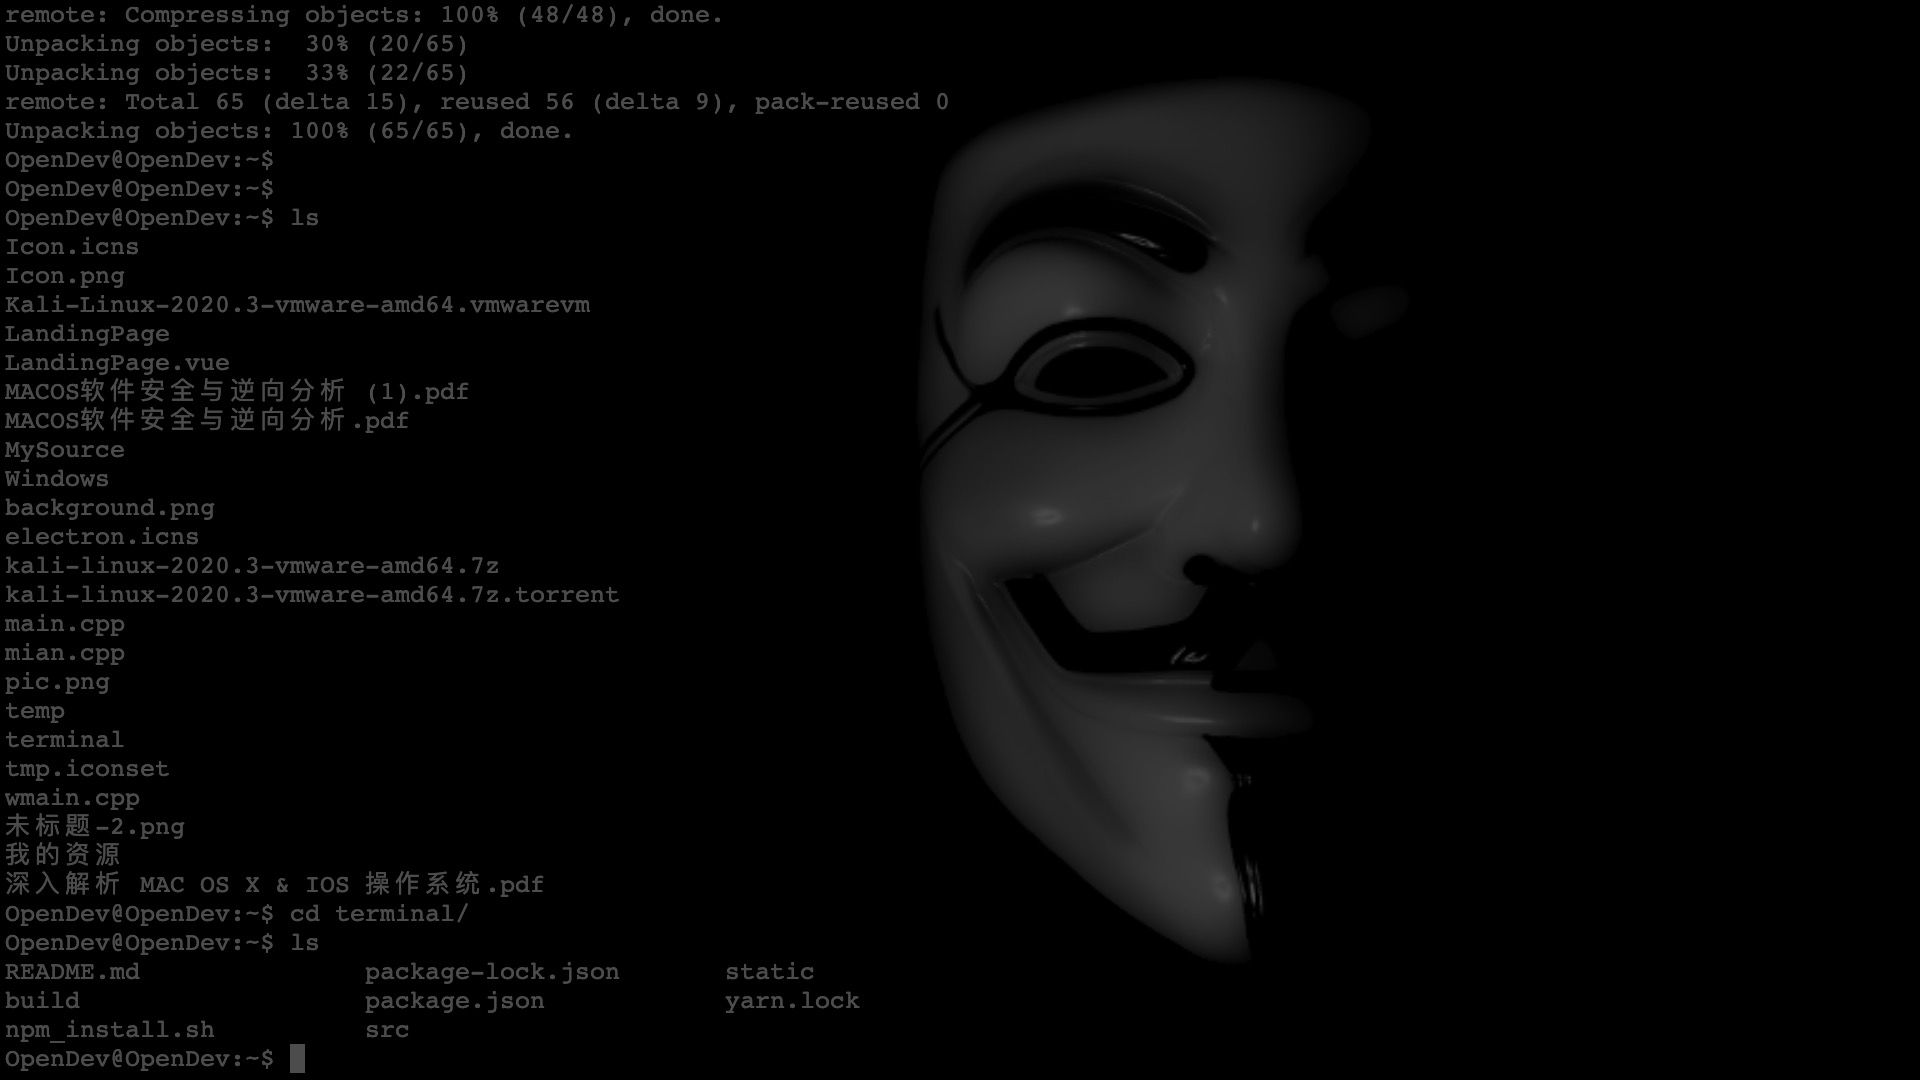
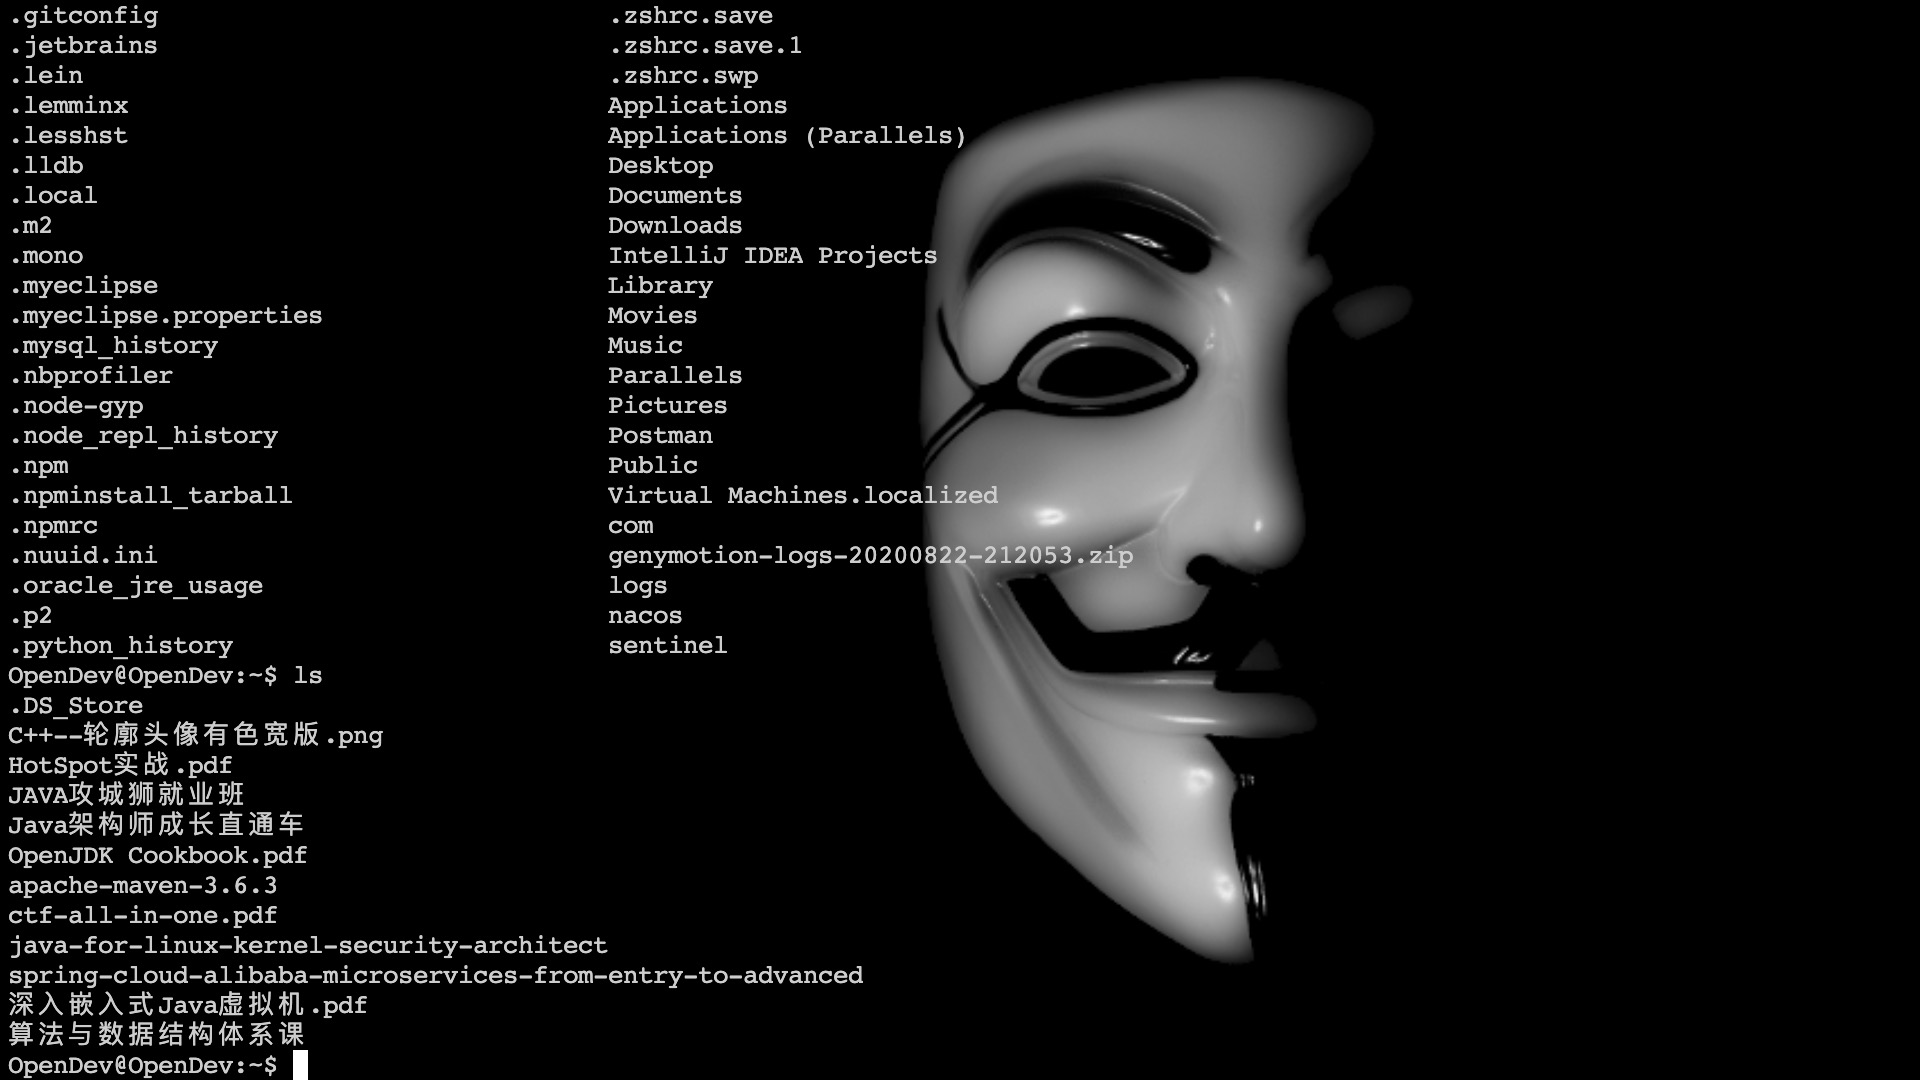
优化代码,取消透明效果,无边框效果,窗口调节为简洁简单的样式,改变窗口宽度1215px.

Changed region(s): [[0.0, 0.0, 0.7188, 1.0], [0.2188, 0.3361, 0.25, 0.3667]]

diff --git a/src/renderer/components/Terminal.vue b/src/renderer/components/Terminal.vue
@@ -1,26 +1,15 @@
-<template>
-
-        
-    <div id="xterm" :style="{backgroundImage: 'url(' + background + ')'} "></div>
-       
-
+<template>   
+    <div id="xterm" :style="{backgroundImage: 'url(' + background + ')'} "></div> 
 </template>
 
 <style scoped>
     #xterm{
-        
-        
-        margin-left: 4.7px;
+        margin-left: 8.2px;
         height: 100%;
         width: 100%;
         background: no-repeat center;
         background-size: contain;
     }
-
-    
-    
-
-    
 
 </style>
   
@@ -28,25 +17,14 @@
 
 const os = require('os');
 const pty = require('node-pty');
-
-import { Terminal } from 'xterm';
-
-import { FitAddon } from 'xterm-addon-fit';
 const { remote } = require('electron')
+import { Terminal } from 'xterm';
+import { FitAddon } from 'xterm-addon-fit';
 import background from '@/assets/background.png'
-import { send } from 'process';
+
 
 export default {
     name: 'Terminal',
-
-    props: {
-        terminalProperties: {
-            type: Object,
-            default: function(){
-                return {}
-            }
-        }
-    },
 
     data(){
         return{
@@ -59,83 +37,103 @@ export default {
     },
 
     methods: {
+
+        /**
+         * 初始化Terminal终端
+         */
         initializeTerminal: function(){
-        this.shell = process.env[os.platform() === 'win32' ? 'COMSPEC' : 'SHELL'];
-        this.ptyProcess = pty.spawn(this.shell,[],{
-            name: 'xterm-color',
-            cols: 80,
-            rows: 30,
-            cwd: process.env.HOME,
-            env: process.env
-        });
-        this.ptyProcess.write('source ~/.bash_profile\r');
-        const that = this;
-        this.xterm = new Terminal({
             
+            /**
+             * 初始化node-pty
+             */
+            this.shell = process.env[os.platform() === 'win32' ? 'COMSPEC' : 'SHELL'];
+            this.ptyProcess = pty.spawn(this.shell,[],{
+                cwd: process.env.HOME,
+                env: process.env
+            });
             
-            
-            
-            cursorBlink: true, //光标闪烁
-            fontSize: 25,
-            
-            theme: {
+            // 写命令
+            this.ptyProcess.write('source ~/.bash_profile\r');
+
+            const that = this;
+
+            /**
+             * 初始化xterm
+             */
+            this.xterm = new Terminal({
                 
-                foreground:'white',
-                background: "#0000",
-               
+                cursorBlink: true, // 光标闪烁
+                fontSize: 26, // 字体大小 
+                theme: {
+                    
+                    foreground:'lightgray', // 前景色
+                    background: "#0000", // 背景色
+                
+                
+                },
+                allowTransparency: true // 开启透明
+                
+            });
+            
+            /**
+             * 使用自适应宽度、高度插件并把终端挂载在名为xterm元素上
+             */
+            this.fitAddon = new FitAddon();
+            this.xterm.loadAddon(this.fitAddon);
+            this.xterm.open(document.getElementById('xterm')); 
+            this.fitAddon.fit();
+
+
+            this.ptyProcess.write('clear\r');
+
+            /**
+             * xterm监听键盘数据
+             */
+            this.xterm.onData(send => {
+
+                // 向node-pty发送数据
+                this.ptyProcess.write(send);
+
+                });
+            
+            /**
+             * node-pty监听xterm发送过来数据
+             */
+            this.ptyProcess.onData(recv => {
+                
+                /**
+                 * 回显数据给xterm
+                 */
+                this.xterm.write(recv);
              
-            },
-            allowTransparency: true
-            
-        });
+                });
+
         
-        this.fitAddon = new FitAddon();
-        this.xterm.loadAddon(this.fitAddon);
-        this.xterm.open(document.getElementById('xterm')); 
-        this.fitAddon.fit();
-        this.ptyProcess.write('clear\r');
-        this.xterm.onData(send => {
+            /**
+             * 监听窗口大小发生改变，重新调用插件，以适应父容器的宽和高
+             */
+            window.addEventListener("resize", resizeScreen);
 
-            this.ptyProcess.write(send);
-
-    
-            });
-        
-        this.ptyProcess.onData(recv => {
             
-            this.xterm.write(recv);
-
-            });
-
-     
-
-        window.addEventListener("resize", resizeScreen);
-
-        function resizeScreen(){
-           
-            that.fitAddon.fit();
-        }
+            function resizeScreen(){
+                that.fitAddon.fit();
+            }
 
         
         }
         
     },
 
-
-
-
     mounted(){
         
        this.initializeTerminal();
-       remote.getCurrentWindow().setSize(858, 481)
-        
+       remote.getCurrentWindow().setSize(1215, 750);
+      
        
     }
 
 
 
 }
-
-
 
 </script>

diff --git a/src/main/index.js b/src/main/index.js
@@ -1,12 +1,5 @@
-import { app, BrowserWindow, screen } from 'electron'
+import { app, BrowserWindow} from 'electron'
 
-
-
-
-/**
- * Set `__static` path to static files in production
- * https://simulatedgreg.gitbooks.io/electron-vue/content/en/using-static-assets.html
- */
 if (process.env.NODE_ENV !== 'development') {
   global.__static = require('path').join(__dirname, '/static').replace(/\\/g, '\\\\')
 }
@@ -16,42 +9,44 @@ const winURL = process.env.NODE_ENV === 'development'
   ? `http://localhost:9080`
   : `file://${__dirname}/index.html`
 
+/**
+ * 实例化一个窗口
+ */
 function createWindow () {
-  /**
-   * Initial window options
-   */
   mainWindow = new BrowserWindow({
-    height: 480,
+    height: 750, // 窗口高度
     useContentSize: true,
-    width: 857,
+    width: 1215, // 窗口宽度
+    center: true, // 窗口居中
     webPreferences:{
-      nodeIntegration: true,
-      enableRemoteModule: true
+      nodeIntegration: true, // 集成node框架
+      enableRemoteModule: true 
     },
-    transparent: true,
-    frame: false,
- 
-   
     
-   
+    
+ 
   })
-  mainWindow.setAlwaysOnTop(true);
-  mainWindow.setPosition(screen.getPrimaryDisplay().workAreaSize.width-857-63,63,true);
+
+  // 窗口居中
+
+ 
+  // 关闭开发者工具
+  mainWindow.webContents.closeDevTools() 
+ 
+
+  // 调用appProperties函数
   appProperties();
+
+  // 加载index.html文件
   mainWindow.loadURL(winURL)
   
   mainWindow.on('closed', () => {
     mainWindow = null
   })
 
-  
-  mainWindow.webContents.openDevTools({mode:'undocked'})
-  
-  
-
-  
 }
 
+  
 app.on('ready', createWindow)
 
 app.on('window-all-closed', () => {
@@ -68,11 +63,10 @@ app.on('activate', () => {
   }
 })
 
-
+/**
+ * 开启渲染进程调用本地API
+ */
 function appProperties (){
   app.allowRendererProcessReuse = false;
 }
-
-
-
 

diff --git a/src/renderer/router/index.js b/src/renderer/router/index.js
@@ -7,7 +7,7 @@ export default new Router({
   routes: [
     {
       path: '/',
-      name: 'landing-page',
+      name: 'Terminal',
       component: require('@/components/Terminal').default
     },
     {

diff --git a/src/renderer/App.vue b/src/renderer/App.vue
@@ -6,7 +6,7 @@
 
 <script>
   export default {
-    name: 'terminal'
+    name: 'App'
   }
   
 </script>

diff --git a/README.md b/README.md
@@ -1,6 +1,10 @@
 # terminal
+默认效果
 ![image](https://github.com/OpenSrcDeveloper/terminal/blob/master/static/TerminalDemo01.png)
+全屏效果
 ![image](https://github.com/OpenSrcDeveloper/terminal/blob/master/static/TerminalDemo02.png)
+背景图片来自于Anonymous-OS
+![image](https://github.com/OpenSrcDeveloper/terminal/blob/master/static/Anonymous-OS.png)
 #### Build Setup
 
 ``` bash
@@ -48,6 +52,12 @@ LC_ALL=
 用sudo命令打开应用
 sudo open build/terminal-darwin-x64/terminal.app
 或sudo open /Applications/Terminal.app
+
+# 提供Mac OS X 编译好的二进制文件下载
+链接:https://pan.baidu.com/s/14kqyykGGkduZSXGP_tA26Q  密码:vlo6
+
+# 未修复的BUG
+1、当窗口宽度小于1215px时或改变字体大小，用Vim打开有内容的文件会出现空白现象，也可能还与高度有关，所以窗口默认设置了宽度为1215px大小。
 
 ```
 
